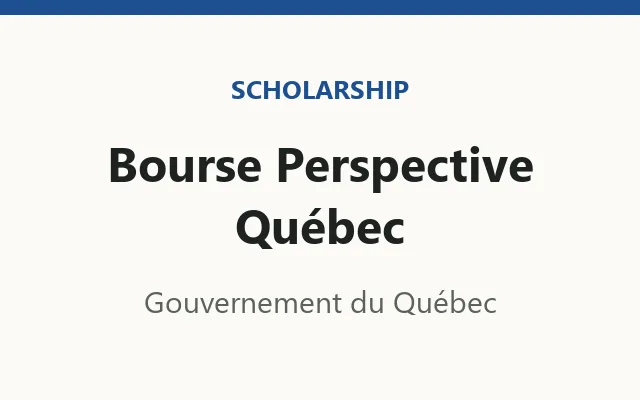
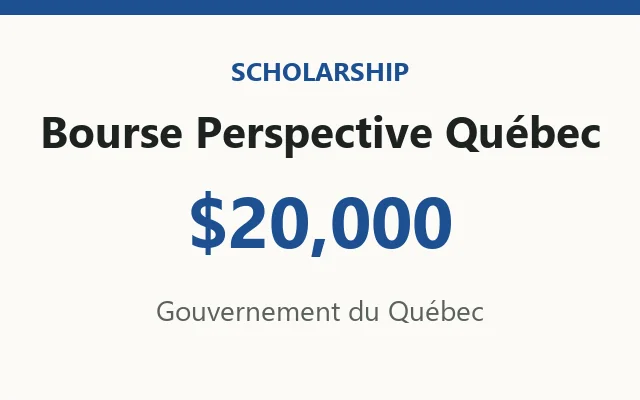
$20,000 Perspective Quebec; profile-style homepage record; no client name for the CRM
- Bourse Perspective Quebec is $20,000 in /game (card, sign, line) and on the
  homepage; the Perseverance Scholarship reads $2,500 in both
- the CRM Outreach Tool is described as built for a community of
  agriculture startups everywhere (case study, homepage, game)
- homepage "Beyond the hackathons" and "Scholarships": profile-style cards
  with 72px logos, role in bold, organisation, date or amount, one sentence;
  "Also built at" in the same card style

Changed region(s): [[0.0625, 0.15, 0.9375, 0.66], [0.2188, 0.72, 0.7812, 0.81]]

diff --git a/portfolio/src/components/prototype/WinsChapter.tsx b/portfolio/src/components/prototype/WinsChapter.tsx
@@ -34,33 +34,59 @@ function WinImage({ slug, alt }: { slug: string; alt: string }) {
   );
 }
 
-/** One line of the record: logo, a small label, the title, one sentence. Links when there is a case study. */
-function Entry({ r }: { r: Recognition }) {
+/**
+ * One entry, read like a profile: a large logo, the role in bold, the organisation, the date (or amount),
+ * one sentence. The whole entry links when there is a case study.
+ */
+function Entry({ r, money }: { r: Recognition; money?: boolean }) {
   const body = (
     <>
-      <span className="flex h-12 w-12 shrink-0 items-center justify-center overflow-hidden rounded-[10px] border border-[var(--border-light)] bg-white">
+      <span className="flex h-14 w-14 shrink-0 items-center justify-center overflow-hidden rounded-[14px] border border-[var(--border-light)] bg-white shadow-[0_1px_2px_rgba(0,0,0,0.04)] sm:h-[72px] sm:w-[72px]">
         {r.logo ? (
-          <img src={r.logo} alt="" width={48} height={48} loading="lazy" decoding="async" className="h-full w-full object-contain p-1.5" />
+          <img src={r.logo} alt="" width={72} height={72} loading="lazy" decoding="async" className="h-full w-full object-contain p-2" />
         ) : (
-          <Award aria-hidden className="h-5 w-5 text-[var(--text-on-light-secondary)]" strokeWidth={1.6} />
+          <span className="flex h-full w-full items-center justify-center bg-[#1d4f91]">
+            <Award aria-hidden className="h-7 w-7 text-white" strokeWidth={1.7} />
+          </span>
         )}
       </span>
-      <span className="min-w-0">
-        <span className="block text-[13px] text-[var(--text-on-light-secondary)]">{r.label}</span>
-        <span className="mt-0.5 block text-[16px] font-medium leading-snug text-[var(--text-on-light)] transition-colors group-hover:text-[var(--accent-on-light)]">
-          {r.title}
-          {r.href && (
-            <span aria-hidden className="ml-1.5 inline-block text-[var(--accent-on-light)] transition-transform duration-300 group-hover:translate-x-1">
-              →
+      <span className="min-w-0 flex-1">
+        <span className="flex flex-wrap items-baseline justify-between gap-x-4 gap-y-0.5">
+          <span className="text-[17px] font-semibold leading-snug text-[var(--text-on-light)] transition-colors group-hover:text-[var(--accent-on-light)]">
+            {r.title}
+            {r.href && (
+              <span aria-hidden className="ml-1.5 inline-block text-[var(--accent-on-light)] transition-transform duration-300 group-hover:translate-x-1">
+                →
+              </span>
+            )}
+          </span>
+          {r.meta && (
+            <span className={money ? "text-[17px] font-semibold tabular-nums text-[var(--text-on-light)]" : "font-mono text-xs tabular-nums text-[var(--text-on-light-secondary)]"}>
+              {r.meta}
             </span>
           )}
         </span>
-        <span className="mt-1 block text-sm leading-relaxed text-[var(--text-on-light-secondary)]">{r.detail}</span>
+        <span className="mt-0.5 block text-[15px] text-[var(--text-on-light)] opacity-80">{r.org}</span>
+        {r.detail && <span className="mt-2 block text-sm leading-relaxed text-[var(--text-on-light-secondary)]">{r.detail}</span>}
       </span>
     </>
   );
-  const cls = "group grid grid-cols-[3rem_minmax(0,1fr)] items-start gap-4 py-5";
-  return <li>{r.href ? <Link href={r.href} className={cls}>{body}</Link> : <div className={cls}>{body}</div>}</li>;
+  const cls = "group flex items-start gap-4 px-5 py-5 sm:gap-5 sm:px-6";
+  return <li>{r.href ? <Link href={r.href} className={`${cls} transition-colors hover:bg-[var(--surface-light)]`}>{body}</Link> : <div className={cls}>{body}</div>}</li>;
+}
+
+/** a titled panel of entries, dividers inset past the logo like a profile page */
+function Panel({ title, items, money }: { title: string; items: Recognition[]; money?: boolean }) {
+  return (
+    <div>
+      <h3 className="text-lg text-[var(--text-on-light)]">{title}</h3>
+      <ul className="mt-4 overflow-hidden rounded-[18px] border border-[var(--border-light)] bg-white shadow-[0_18px_40px_-30px_rgba(0,0,0,0.35)] [&>li+li]:border-t [&>li+li]:border-[var(--border-light)]">
+        {items.map((r) => (
+          <Entry key={r.title + r.org} r={r} money={money} />
+        ))}
+      </ul>
+    </div>
+  );
 }
 
 /** Static light section: no pinning, just the record. Wins lead with what was built; the rest reads as two lists. */
@@ -105,35 +131,21 @@ export default function WinsChapter({ id }: { id: string }) {
 
         {/* the rest of the record: community work on the left; scholarships and the other hackathon builds on the right */}
         <div className="mt-24 grid gap-16 lg:grid-cols-[minmax(0,1.35fr)_minmax(0,1fr)] lg:gap-20">
-          <div>
-            <h3 className="text-lg text-[var(--text-on-light)]">Beyond the hackathons</h3>
-            <ul className="mt-2 divide-y divide-[var(--border-light)] border-y border-[var(--border-light)]">
-              {COMMUNITY.map((r) => (
-                <Entry key={r.title} r={r} />
-              ))}
-            </ul>
-          </div>
+          <Panel title="Beyond the hackathons" items={COMMUNITY} />
 
           <div className="space-y-14">
-            <div>
-              <h3 className="text-lg text-[var(--text-on-light)]">Scholarships</h3>
-              <ul className="mt-2 divide-y divide-[var(--border-light)] border-y border-[var(--border-light)]">
-                {SCHOLARSHIPS.map((r) => (
-                  <Entry key={r.title} r={r} />
-                ))}
-              </ul>
-            </div>
+            <Panel title="Scholarships" items={SCHOLARSHIPS} money />
 
             <div>
               <h3 className="text-lg text-[var(--text-on-light)]">Also built at</h3>
-              <ul className="mt-2 divide-y divide-[var(--border-light)] border-y border-[var(--border-light)]">
+              <ul className="mt-4 overflow-hidden rounded-[18px] border border-[var(--border-light)] bg-white shadow-[0_18px_40px_-30px_rgba(0,0,0,0.35)] [&>li+li]:border-t [&>li+li]:border-[var(--border-light)]">
                 {ALSO_COMPETED.map((c) => (
                   <li key={c.event}>
                     <Link
                       href={`/portfolio/${c.slug}`}
                       // the visible cells read as a table; the link's name says it as a sentence
                       aria-label={`${c.project}, built at ${c.event}, ${c.date}`}
-                      className="group grid min-h-[56px] grid-cols-[minmax(0,1fr)_auto] items-center gap-x-4 py-3 text-left transition-colors"
+                      className="group grid min-h-[56px] grid-cols-[minmax(0,1fr)_auto] items-center gap-x-4 px-5 py-3.5 text-left transition-colors hover:bg-[var(--surface-light)] sm:px-6"
                     >
                       <span className="flex min-w-0 flex-col">
                         <span className="text-[15px] font-medium text-[var(--text-on-light)] transition-colors group-hover:text-[var(--accent-on-light)]">

diff --git a/portfolio/src/data/portfolio-export.ts b/portfolio/src/data/portfolio-export.ts
@@ -297,7 +297,7 @@ export const portfolioData = {
             "Apollo.io",
             "Google Sheets API"
           ],
-          "summary": "Fully integrated CRM outreach tool built for a Montreal urban agriculture cooperative (La Centrale Agricole), developed as part of Accenture's AOTC 2026 program. Manages contact lists across 3 audience segments (corporate, schools, institutions & media). Uses Google Gemini AI to generate personalized cold emails tailored to each contact's name, title, and organization â€” then sends them directly through the app. Tracks every contact through the full sales pipeline, syncs all data to Google Sheets in real time, and centralizes booking requests with auto-calculated revenue estimates. Team can accept, refuse, or cancel reservations â€” triggering a professional email to the client instantly. Total running cost: ~$0/month on free tiers.",
+          "summary": "Fully integrated CRM outreach tool built for a community of agriculture startups, developed as part of Accenture's AOTC 2026 program. Manages contact lists across 3 audience segments (corporate, schools, institutions & media). Uses Google Gemini AI to generate personalized cold emails tailored to each contact's name, title, and organization â€” then sends them directly through the app. Tracks every contact through the full sales pipeline, syncs all data to Google Sheets in real time, and centralizes booking requests with auto-calculated revenue estimates. Team can accept, refuse, or cancel reservations â€” triggering a professional email to the client instantly. Total running cost: ~$0/month on free tiers.",
           "links": {
             "github": "https://github.com/Louiszhang2005-1/Fully-Integrated-CRM-Tool",
             "demo": "https://www.youtube.com/watch?v=TVuFauDyA00"
@@ -619,7 +619,7 @@ export const portfolioData = {
         "Apollo.io",
         "Google Sheets API"
       ],
-      "summary": "Fully integrated CRM outreach tool built for a Montreal urban agriculture cooperative (La Centrale Agricole), developed as part of Accenture's AOTC 2026 program. Manages contact lists across 3 audience segments (corporate, schools, institutions & media). Uses Google Gemini AI to generate personalized cold emails tailored to each contact's name, title, and organization â€” then sends them directly through the app. Tracks every contact through the full sales pipeline, syncs all data to Google Sheets in real time, and centralizes booking requests with auto-calculated revenue estimates. Team can accept, refuse, or cancel reservations â€” triggering a professional email to the client instantly. Total running cost: ~$0/month on free tiers.",
+      "summary": "Fully integrated CRM outreach tool built for a community of agriculture startups, developed as part of Accenture's AOTC 2026 program. Manages contact lists across 3 audience segments (corporate, schools, institutions & media). Uses Google Gemini AI to generate personalized cold emails tailored to each contact's name, title, and organization â€” then sends them directly through the app. Tracks every contact through the full sales pipeline, syncs all data to Google Sheets in real time, and centralizes booking requests with auto-calculated revenue estimates. Team can accept, refuse, or cancel reservations â€” triggering a professional email to the client instantly. Total running cost: ~$0/month on free tiers.",
       "links": {
         "github": "https://github.com/Louiszhang2005-1/Fully-Integrated-CRM-Tool",
         "demo": "https://www.youtube.com/watch?v=TVuFauDyA00"
@@ -937,7 +937,7 @@ export const portfolioData = {
         "Apollo.io",
         "Google Sheets API"
       ],
-      "summary": "Fully integrated CRM outreach tool built for a Montreal urban agriculture cooperative (La Centrale Agricole), developed as part of Accenture's AOTC 2026 program. Manages contact lists across 3 audience segments (corporate, schools, institutions & media). Uses Google Gemini AI to generate personalized cold emails tailored to each contact's name, title, and organization â€” then sends them directly through the app. Tracks every contact through the full sales pipeline, syncs all data to Google Sheets in real time, and centralizes booking requests with auto-calculated revenue estimates. Team can accept, refuse, or cancel reservations â€” triggering a professional email to the client instantly. Total running cost: ~$0/month on free tiers.",
+      "summary": "Fully integrated CRM outreach tool built for a community of agriculture startups, developed as part of Accenture's AOTC 2026 program. Manages contact lists across 3 audience segments (corporate, schools, institutions & media). Uses Google Gemini AI to generate personalized cold emails tailored to each contact's name, title, and organization â€” then sends them directly through the app. Tracks every contact through the full sales pipeline, syncs all data to Google Sheets in real time, and centralizes booking requests with auto-calculated revenue estimates. Team can accept, refuse, or cancel reservations â€” triggering a professional email to the client instantly. Total running cost: ~$0/month on free tiers.",
       "links": {
         "github": "https://github.com/Louiszhang2005-1/Fully-Integrated-CRM-Tool",
         "demo": "https://www.youtube.com/watch?v=TVuFauDyA00"

diff --git a/portfolio/src/components/prototype/projectData.ts b/portfolio/src/components/prototype/projectData.ts
@@ -135,48 +135,53 @@ export const ALSO_COMPETED = [
 ];
 
 /**
- * Beyond the wins: from Louis's LinkedIn education entry and his own notes.
- * `logo` is a small mark from each organisation's own site; `href` links an entry to its case study.
+ * Beyond the wins: from Louis's LinkedIn education entry and his own notes; /game shows the same facts.
+ * `logo` is a mark from each organisation's own site; `href` links an entry to its case study.
  */
 export type Recognition = {
-  /** what kind of thing it is, with a date when there is one */
-  label: string;
+  /** the role, or the award's name */
   title: string;
+  org: string;
+  /** date, or the amount for a scholarship */
+  meta?: string;
   /** one short sentence on the role */
-  detail: string;
+  detail?: string;
   logo?: string;
   href?: string;
 };
 
 export const COMMUNITY: Recognition[] = [
   {
-    label: "Apprenticeship · Jan.–Apr. 2026",
-    title: "Accenture, Accent on the Community",
-    detail: "Pro-bono consulting program. Our student team built a CRM outreach tool for La Centrale Agricole.",
+    title: "Apprentice, Accent on the Community",
+    org: "Accenture",
+    meta: "Jan.–Apr. 2026",
+    detail: "Pro-bono consulting program. Our student team built a CRM outreach tool for a community of agriculture startups.",
     logo: "/logo/accenture-mark.png",
     href: "/portfolio/crm-outreach-tool",
   },
   {
-    label: "Leadership",
-    title: "VP Events, Google Developer Group",
-    detail: "GDG on Campus, Polytechnique Montréal. I plan and run the chapter's events for students.",
+    title: "VP Events",
+    org: "Google Developer Group on Campus · Polytechnique Montréal",
+    detail: "I plan and run the chapter's events for students.",
     logo: "/logo/gdg.png",
   },
   {
-    label: "Hackathon judge · May 2026",
-    title: "MPC Hacks",
+    title: "Hackathon judge",
+    org: "MPC Hacks",
+    meta: "May 2026",
     detail: "Evaluated student teams' projects and demos.",
     logo: "/logo/mpc-hacks.png",
   },
   {
-    label: "Hackathon judge · Nov. 2026",
-    title: "Hack Découverte",
-    detail: "HackConcordia's hackathon for CEGEP and high school students.",
+    title: "Hackathon judge",
+    org: "Hack Découverte · HackConcordia",
+    meta: "Nov. 2026",
+    detail: "A hackathon for CEGEP and high school students.",
     logo: "/logo/hackconcordia.png",
   },
   {
-    label: "Guest speaker",
-    title: "SCS Concordia",
+    title: "Guest speaker",
+    org: "SCS Concordia",
     detail: "A talk on landing tech internships, to 100 students.",
     logo: "/logo/scs-concordia.png",
   },
@@ -184,14 +189,15 @@ export const COMMUNITY: Recognition[] = [
 
 export const SCHOLARSHIPS: Recognition[] = [
   {
-    label: "Polytechnique Montréal",
-    title: "Lina & Jean-Guy Gaudreault Perseverance Scholarship",
-    detail: "$2,500",
-    logo: "/logo/polytechnique-mark.png",
+    title: "Bourse Perspective Québec",
+    org: "Government of Québec",
+    meta: "$20,000",
+    detail: "For students in engineering and other priority fields.",
   },
   {
-    label: "Government of Québec",
-    title: "Bourse Perspective Québec",
-    detail: "For students in engineering and other priority fields.",
+    title: "Lina & Jean-Guy Gaudreault Perseverance Scholarship",
+    org: "Polytechnique Montréal",
+    meta: "$2,500",
+    logo: "/logo/polytechnique-mark.png",
   },
 ];

diff --git a/portfolio/src/components/drive/driveData.ts b/portfolio/src/components/drive/driveData.ts
@@ -83,7 +83,7 @@ export function buildWorld(): WorldData {
     kind: "internship",
     kicker: "Apprenticeship · Jan.–Apr. 2026",
     title: "Accenture",
-    line: "Accent on the Community, Accenture's pro-bono consulting program: our student team built a CRM outreach tool for La Centrale Agricole, a Montréal urban farming co-op.",
+    line: "Accent on the Community, Accenture's pro-bono consulting program: our student team built a CRM outreach tool for a community of agriculture startups.",
     href: "/portfolio/crm-outreach-tool",
     links: [],
     accent: "#a100ff",
@@ -175,17 +175,17 @@ export function buildWorld(): WorldData {
     },
     {
       id: "scholarship",
-      kicker: "Scholarship",
+      kicker: "Scholarship · $2,500",
       title: "Perseverance Scholarship",
-      line: "Lina & Jean-Guy Gaudreault Perseverance Scholarship, $2,500.",
+      line: "Lina & Jean-Guy Gaudreault Perseverance Scholarship from Polytechnique Montréal: $2,500.",
       links: [],
       logo: "/media/drive/scholarship.webp",
     },
     {
       id: "perspective-quebec",
-      kicker: "Scholarship",
+      kicker: "Scholarship · $20,000",
       title: "Bourse Perspective Québec",
-      line: "Government of Québec scholarship for full-time students in fields with labour shortages, such as engineering, paid after each completed term.",
+      line: "Government of Québec scholarship for students in engineering and other priority fields: $20,000.",
       links: [],
       logo: "/media/drive/perspective-quebec.webp",
     },

diff --git a/portfolio/src/data/portfolio.md b/portfolio/src/data/portfolio.md
@@ -160,7 +160,7 @@ A fast-paced, real-time competitive party game for language learning. Players ba
 **GitHub:** https://github.com/Louiszhang2005-1/Fully-Integrated-CRM-Tool  
 **Demo:** https://www.youtube.com/watch?v=TVuFauDyA00
 
-Fully integrated CRM outreach tool built for La Centrale Agricole, a Montreal urban agriculture cooperative, as part of Accenture's AOTC 2026 program.
+Fully integrated CRM outreach tool built for a community of agriculture startups, as part of Accenture's AOTC 2026 program.
 
 - Manages contact lists across 3 audience segments (corporate, schools, institutions & media)
 - Uses Google Gemini AI to generate personalized cold emails tailored to each contact's name, title, and organization — then sends them directly through the app
